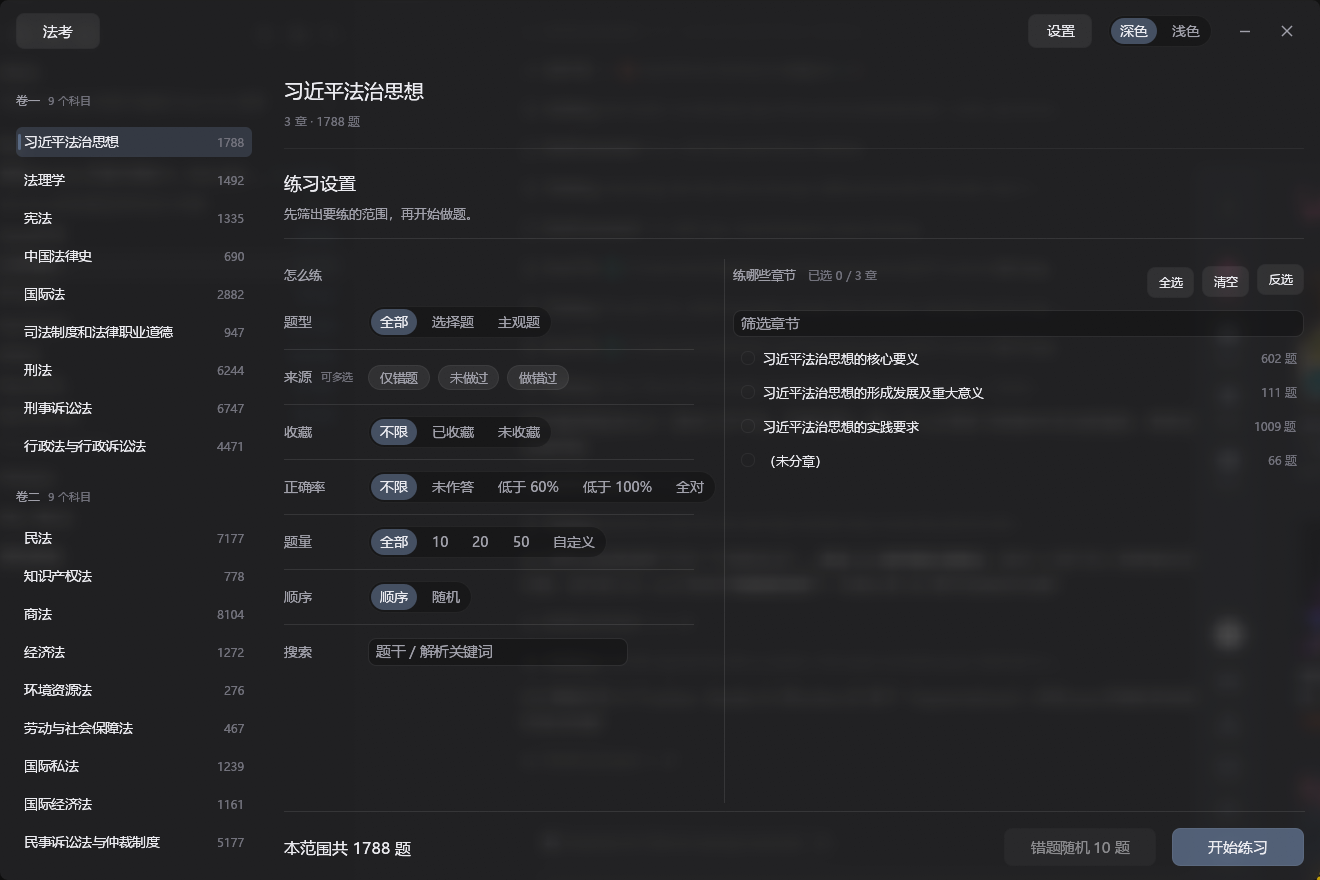
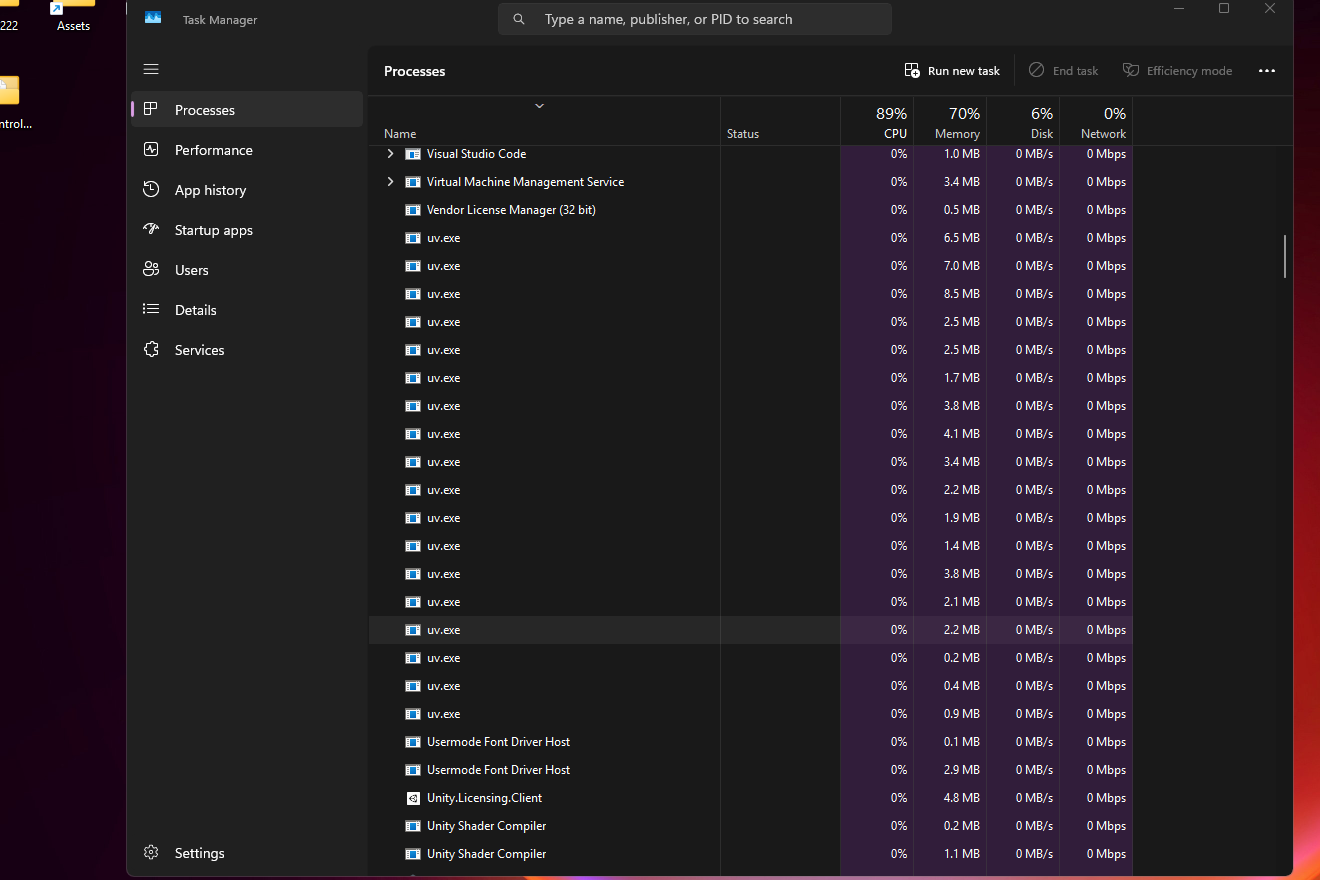
v0.14: revert the light-theme "wash" -- it was my invention, not the design
The user: "原本主题不包含透明度 就是正常颜色，透明度和模糊都是之后再算的，不需要你来给我洗一遍".

They are right. v0.13 added `background.desktop_wash` and tinted the captured
desktop toward the scrim colour in light mode. That changed the frosted
backdrop away from the real desktop, which is not what the design says: the
theme supplies normal colours, and transparency and blur are applied as a
separate step on top of them.

Removed: the token (both modes), the tint parameters on
glass::blur::to_color_image and its call site, and the test for it. The
backdrop is the blurred desktop again, unmodified.

Measured after the revert: light body 194, dark body 25.

What the grey actually is, now that nothing is hiding it: the light scrim is
rgba(248,248,250,204) -- the theme colour at 透明度 20, i.e. 80% opaque --
composited over a dark desktop, so

    rendered = 0.80 * 248 + 0.20 * desktop

and a dark desktop lands the body near 194 rather than 248. That is arithmetic,
not a bug: any light surface at 80% opacity over a dark backdrop must be grey.
Dark mode does not show it because its scrim and its desktop are both dark.

If the grey is not wanted, the fix is a compositing decision, not a tint --
e.g. make the sheet opaque and let the desktop show only at the window's own
edges, or drop 透明度 in light mode. That is the user's call, so this release
only reverts to what they asked for.

diff --git a/src/bin/studyapp/glass/blur.rs b/src/bin/studyapp/glass/blur.rs
@@ -461,37 +461,12 @@ pub fn gaussian(rgb: &[[f32; 3]], w: usize, h: usize, sigma: f32) -> Vec<[f32; 3
 }
 
 /// `[f32; 3]` in `0.0..=1.0` back to an opaque `egui::ColorImage`.
-/// Convert to an egui image, washing the result toward `tint` by `amount`.
-///
-/// `amount` is 0 for the dark theme — a dark desktop under a dark scrim needs
-/// no help — and high for the light one. A light theme cannot be light over an
-/// arbitrary desktop by translucency alone: the scrim is only ~80 % opaque, so
-/// a dark desktop pulls the body down to a mid grey (measured: the body
-/// rendered 193 instead of ~248, while the settings modal, which is painted
-/// with the opaque `glass.solid`, looked right at 250). Washing the captured
-/// desktop toward the theme colour is what the OS's own light acrylic does:
-/// the material is tinted toward the theme, so the frosted texture survives
-/// while the body stays light.
-pub fn to_color_image(
-    rgb: &[[f32; 3]],
-    w: usize,
-    h: usize,
-    tint: [f32; 3],
-    amount: f32,
-) -> ColorImage {
+pub fn to_color_image(rgb: &[[f32; 3]], w: usize, h: usize) -> ColorImage {
     let n = (w * h).min(rgb.len());
-    let a = amount.clamp(0.0, 1.0);
     let channel = |v: f32| (v.clamp(0.0, 1.0) * 255.0).round() as u8;
-    let mix = |v: f32, t: f32| v + (t - v) * a;
     let mut pixels: Vec<Color32> = rgb[..n]
         .iter()
-        .map(|p| {
-            Color32::from_rgb(
-                channel(mix(p[0], tint[0])),
-                channel(mix(p[1], tint[1])),
-                channel(mix(p[2], tint[2])),
-            )
-        })
+        .map(|p| Color32::from_rgb(channel(p[0]), channel(p[1]), channel(p[2])))
         .collect();
     pixels.resize(w * h, Color32::BLACK);
     ColorImage::new([w, h], pixels)
@@ -500,29 +475,6 @@ pub fn to_color_image(
 #[cfg(test)]
 mod tests {
     use super::*;
-
-    /// The light theme's whole point: a dark desktop must be washed toward the
-    /// theme colour, or the body renders mid grey instead of near-white.
-    #[test]
-    fn the_wash_lightens_a_dark_desktop_toward_the_tint() {
-        let dark = vec![[0.0f32, 0.0, 0.0]; 4];
-        let tint = [0.97, 0.97, 0.98];
-
-        // No wash: untouched.
-        let plain = to_color_image(&dark, 2, 2, tint, 0.0);
-        assert_eq!(plain.pixels[0], egui::Color32::from_rgb(0, 0, 0));
-
-        // Full wash: exactly the tint.
-        let full = to_color_image(&dark, 2, 2, tint, 1.0);
-        assert_eq!(full.pixels[0], egui::Color32::from_rgb(247, 247, 250));
-
-        // The light theme's 0.80 lands near the tint, and strictly lighter
-        // than the desktop it started from.
-        let light = to_color_image(&dark, 2, 2, tint, 0.80);
-        let p = light.pixels[0];
-        assert!(p.r() > 190, "washed black must be near-white, got {}", p.r());
-        assert!(p.r() < 250, "and must not be clipped to the tint");
-    }
 
     #[test]
     fn gaussian_of_a_flat_image_preserves_the_mean() {

diff --git a/src/bin/studyapp/theme/tokens.rs b/src/bin/studyapp/theme/tokens.rs
@@ -58,12 +58,6 @@ pub struct Background {
     /// instead of the fallback gradient) — the desktop would otherwise be too
     /// loud for body text. Its alpha is the 透明度 setting at paint time.
     pub scrim: Color32,
-    /// How far to wash the captured desktop toward `scrim`'s colour before it
-    /// is drawn, `0..=1`. Zero for the dark theme, where a dark desktop under
-    /// a dark scrim already reads correctly; high for the light one, which
-    /// cannot stay light over an arbitrary desktop by translucency alone. See
-    /// `glass::blur::to_color_image`.
-    pub desktop_wash: f32,
 }
 
 /// Translucent surfaces. A surface is a flat wash of ink over the sheet: no
@@ -212,8 +206,6 @@ impl Palette {
                 // Guarded by
                 // `scrim_keeps_body_text_at_aa_over_the_worst_case_desktop`.
                 scrim: rgba(14, 14, 17, 228),
-                // A dark desktop under a dark scrim already reads right.
-                desktop_wash: 0.0,
             },
             glass: Glass {
                 fill: rgba(255, 255, 255, 18),
@@ -258,11 +250,6 @@ impl Palette {
                 // The light mirror of the dark scrim, held at the same alpha so
                 // both modes obey one rule.
                 scrim: rgba(248, 248, 250, 228),
-                // Without this a light theme over a dark desktop renders a mid
-                // grey body (~193 measured) instead of ~248: the scrim is only
-                // ~80 % opaque at 透明度 20. Washing the desktop toward the
-                // scrim colour is what the OS's light acrylic does.
-                desktop_wash: 0.90,
             },
             glass: Glass {
                 fill: rgba(0, 0, 0, 12),

diff --git a/src/bin/studyapp/app.rs b/src/bin/studyapp/app.rs
@@ -919,19 +919,7 @@ impl App {
         let (halvings, sigma) = glass::blur::params(self.user.glass_blur);
         let (w, h, rgb) = glass::blur::downscale(shot, halvings);
         let blurred = glass::blur::gaussian(&rgb, w, h, sigma);
-        let scrim = self.tokens.palette.background.scrim;
-        let tint = [
-            scrim.r() as f32 / 255.0,
-            scrim.g() as f32 / 255.0,
-            scrim.b() as f32 / 255.0,
-        ];
-        let image = glass::blur::to_color_image(
-            &blurred,
-            w,
-            h,
-            tint,
-            self.tokens.palette.background.desktop_wash,
-        );
+        let image = glass::blur::to_color_image(&blurred, w, h);
 
         self.glass_origin = shot.origin;
         self.glass_size = (shot.width, shot.height);
